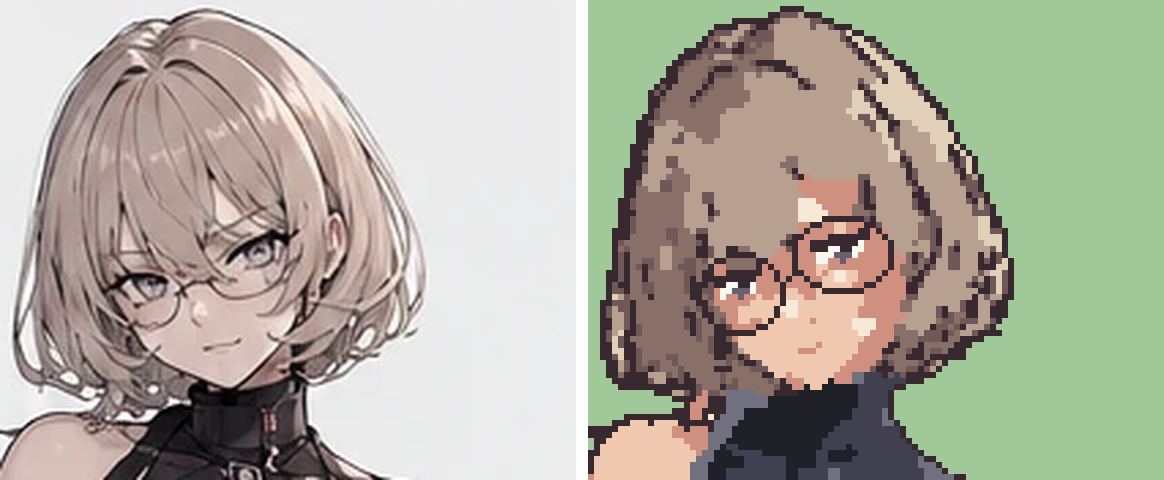
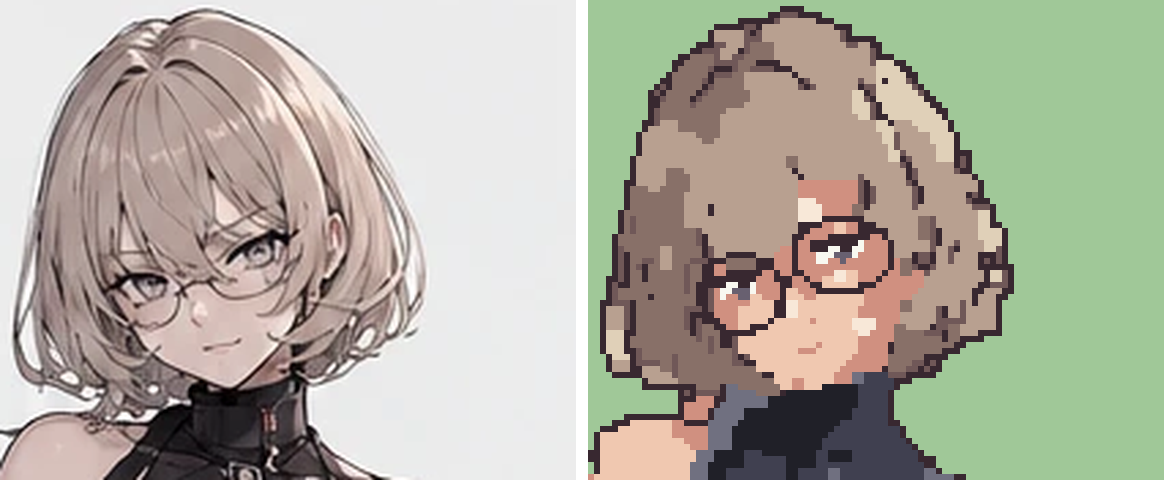
Portrait: remove one-pixel bumps, thin outlines, prune spurs
Claude-Session: https://claude.ai/code/session_012FnQf5vyUVa4kpFvqkap2h

diff --git a/pixel_art/portrait_from_ref.py b/pixel_art/portrait_from_ref.py
@@ -123,29 +123,52 @@ def smooth(out):
 for _ in range(3):
     out = smooth(out)
 
+def clean_silhouette(out):
+    """Shave one-pixel bumps off the outer contour and fill one-pixel notches in it."""
+    for _ in range(4):
+        changed = False
+        for y in range(H):
+            for x in range(W):
+                inside = (x, y) in out
+                n_in = [(x + dx, y + dy) in out for dx, dy in N4]
+                if inside and n_in.count(False) >= 3 and y < H - 1:
+                    del out[(x, y)]; changed = True
+                elif not inside and n_in.count(True) >= 3:
+                    nb = [out[(x + dx, y + dy)] for dx, dy in N4 if (x + dx, y + dy) in out]
+                    out[(x, y)] = max(set(nb), key=nb.count); changed = True
+        if not changed:
+            break
+    return out
+out = clean_silhouette(out)
+
 # --- hand-drawn face features (positions traced from the sheet, in crop coords) ---
 def T(x, y):
     return round((x - OX) / S), round((y - OY) / S)
 IRIS, WHITE = (104, 96, 112), (248, 248, 240)
-def put(p, c):
+PROTECT = set()
+def put(p, c, keep=True):           # everything drawn by hand is kept as-is
     out[p] = c
+    if keep:
+        PROTECT.add(p)
+def put_k(p, c):
+    put(p, c, keep=True)
 def eye(cx, cy, wdt, tilt):
     """FE-style eye: thick upper lid, dark-topped iris, one highlight."""
     X, Y = T(cx, cy)
     half = wdt // 2
     for i in range(-half - 1, half + 1):            # upper lid, 2px, slanting with the head
         yy = Y - 2 - round(i * tilt)
-        put((X + i, yy), OUT); put((X + i, yy + 1), OUT)
+        put_k((X + i, yy), OUT); put_k((X + i, yy + 1), OUT)
     for i in range(-half, half):
         yy = Y - round(i * tilt)
-        put((X + i, yy), WHITE); put((X + i, yy + 1), WHITE)
+        put_k((X + i, yy), WHITE); put_k((X + i, yy + 1), WHITE)
     for dx in (-1, 0, 1):                            # iris
-        put((X + dx, Y - round(dx * tilt)), OUT)
-        put((X + dx, Y + 1 - round(dx * tilt)), IRIS)
-    put((X, Y + 2), IRIS)
-    put((X - 1, Y), WHITE)                           # highlight
+        put_k((X + dx, Y - round(dx * tilt)), OUT)
+        put_k((X + dx, Y + 1 - round(dx * tilt)), IRIS)
+    put_k((X, Y + 2), IRIS)
+    put_k((X - 1, Y), WHITE)                           # highlight
     for i in range(-half + 1, half - 1):             # lower lid
-        put((X + i, Y + 3 - round(i * tilt)), RAMPS['skin'][0])
+        put_k((X + i, Y + 3 - round(i * tilt)), RAMPS['skin'][0])
 def ring(x0, y0, x1, y1):
     """Round lens: outline of an ellipse (drawn on a scratch mask, then copied)."""
     a, b = T(x0, y0), T(x1, y1)
@@ -169,6 +192,104 @@ nx, ny = T(107, 120); put((nx, ny), RAMPS['skin'][0])
 for (x, y), c in list(out.items()):
     if y < H - 1 and any((x + dx, y + dy) not in out for dx, dy in N4):
         out[(x, y)] = OUT
+
+def fix_tone_bumps(out):
+    """A flat-colour pixel with at most one same-coloured side neighbour is a bump:
+    it takes the colour most of its side neighbours share."""
+    n = 0
+    for (x, y), c in list(out.items()):
+        if (x, y) in PROTECT or c in (OUT, STRAND):
+            continue
+        n4 = [out.get((x + dx, y + dy)) for dx, dy in N4]
+        if n4.count(c) <= 1:
+            others = [v for v in n4 if v is not None and v != c]
+            if others:
+                top = max(set(others), key=others.count)
+                if others.count(top) >= 2:
+                    out[(x, y)] = top; n += 1
+    return n
+
+RING = [(0, -1), (1, -1), (1, 0), (1, 1), (0, 1), (-1, 1), (-1, 0), (-1, -1)]
+def thin_lines(out, col):
+    """Zhang-Suen thinning of one line colour: lines end up one pixel wide, so curves have
+    no doubled corners or teeth. Line ends are kept. A removed pixel on the silhouette edge
+    becomes background, otherwise it takes the surrounding flat colour."""
+    total = 0
+    while True:
+        removed = 0
+        for step in (0, 1):
+            kill = []
+            for (x, y), c in out.items():
+                if c != col or (x, y) in PROTECT:
+                    continue
+                P = [out.get((x + dx, y + dy)) == col for dx, dy in RING]
+                B = sum(P)
+                A = sum(1 for i in range(8) if not P[i] and P[(i + 1) % 8])
+                if not (2 <= B <= 6 and A == 1):
+                    continue
+                p2, p4, p6, p8 = P[0], P[2], P[4], P[6]
+                if step == 0 and not (p2 and p4 and p6) and not (p4 and p6 and p8):
+                    kill.append((x, y))
+                if step == 1 and not (p2 and p4 and p8) and not (p2 and p6 and p8):
+                    kill.append((x, y))
+            for x, y in kill:
+                if any((x + dx, y + dy) not in out for dx, dy in N4):
+                    del out[(x, y)]
+                    removed += 1
+                else:
+                    nb = [out.get((x + dx, y + dy)) for dx, dy in N8]
+                    tones = [v for v in nb if v is not None and v not in (OUT, STRAND)]
+                    if tones:
+                        out[(x, y)] = max(set(tones), key=tones.count)
+                        removed += 1
+        total += removed
+        if not removed:
+            return total
+
+for _ in range(3):
+    n = fix_tone_bumps(out) + thin_lines(out, OUT) + thin_lines(out, STRAND)
+    if not n:
+        break
+# a removed edge pixel can leave flat colour touching the background: close the contour again
+for (x, y), c in list(out.items()):
+    if (x, y) not in PROTECT and y < H - 1 and any((x + dx, y + dy) not in out for dx, dy in N4):
+        out[(x, y)] = OUT
+thin_lines(out, OUT)
+
+def prune(out):
+    """Spurs and dashes: outline pixels with a single outline neighbour that touch the
+    background are teeth on the contour (dropped); hair strands shorter than 3 pixels are
+    dashes, not strands (they take the hair colour around them)."""
+    for _ in range(2):
+        for (x, y), c in list(out.items()):
+            if c == OUT and (x, y) not in PROTECT and y < H - 1:
+                k = sum(out.get((x + dx, y + dy)) == OUT for dx, dy in N8)
+                if k <= 1 and any((x + dx, y + dy) not in out for dx, dy in N4):
+                    del out[(x, y)]
+    seen = set()
+    for p, c in list(out.items()):
+        if c != STRAND or p in seen:
+            continue
+        comp, stack = [], [p]
+        seen.add(p)
+        while stack:
+            x, y = stack.pop(); comp.append((x, y))
+            for dx, dy in N8:
+                q = (x + dx, y + dy)
+                if q not in seen and out.get(q) == STRAND:
+                    seen.add(q); stack.append(q)
+        if len(comp) < 3:
+            for x, y in comp:
+                nb = [out.get((x + dx, y + dy)) for dx, dy in N8]
+                tones = [v for v in nb if v is not None and v not in (OUT, STRAND)]
+                if tones:
+                    out[(x, y)] = max(set(tones), key=tones.count)
+prune(out)
+for (x, y), c in list(out.items()):          # re-close the contour after pruning
+    if (x, y) not in PROTECT and y < H - 1 and any((x + dx, y + dy) not in out for dx, dy in N4):
+        out[(x, y)] = OUT
+thin_lines(out, OUT)
+fix_tone_bumps(out)
 
 img = Image.new('RGBA', (W, H), (0, 0, 0, 0))
 for (x, y), c in out.items():
